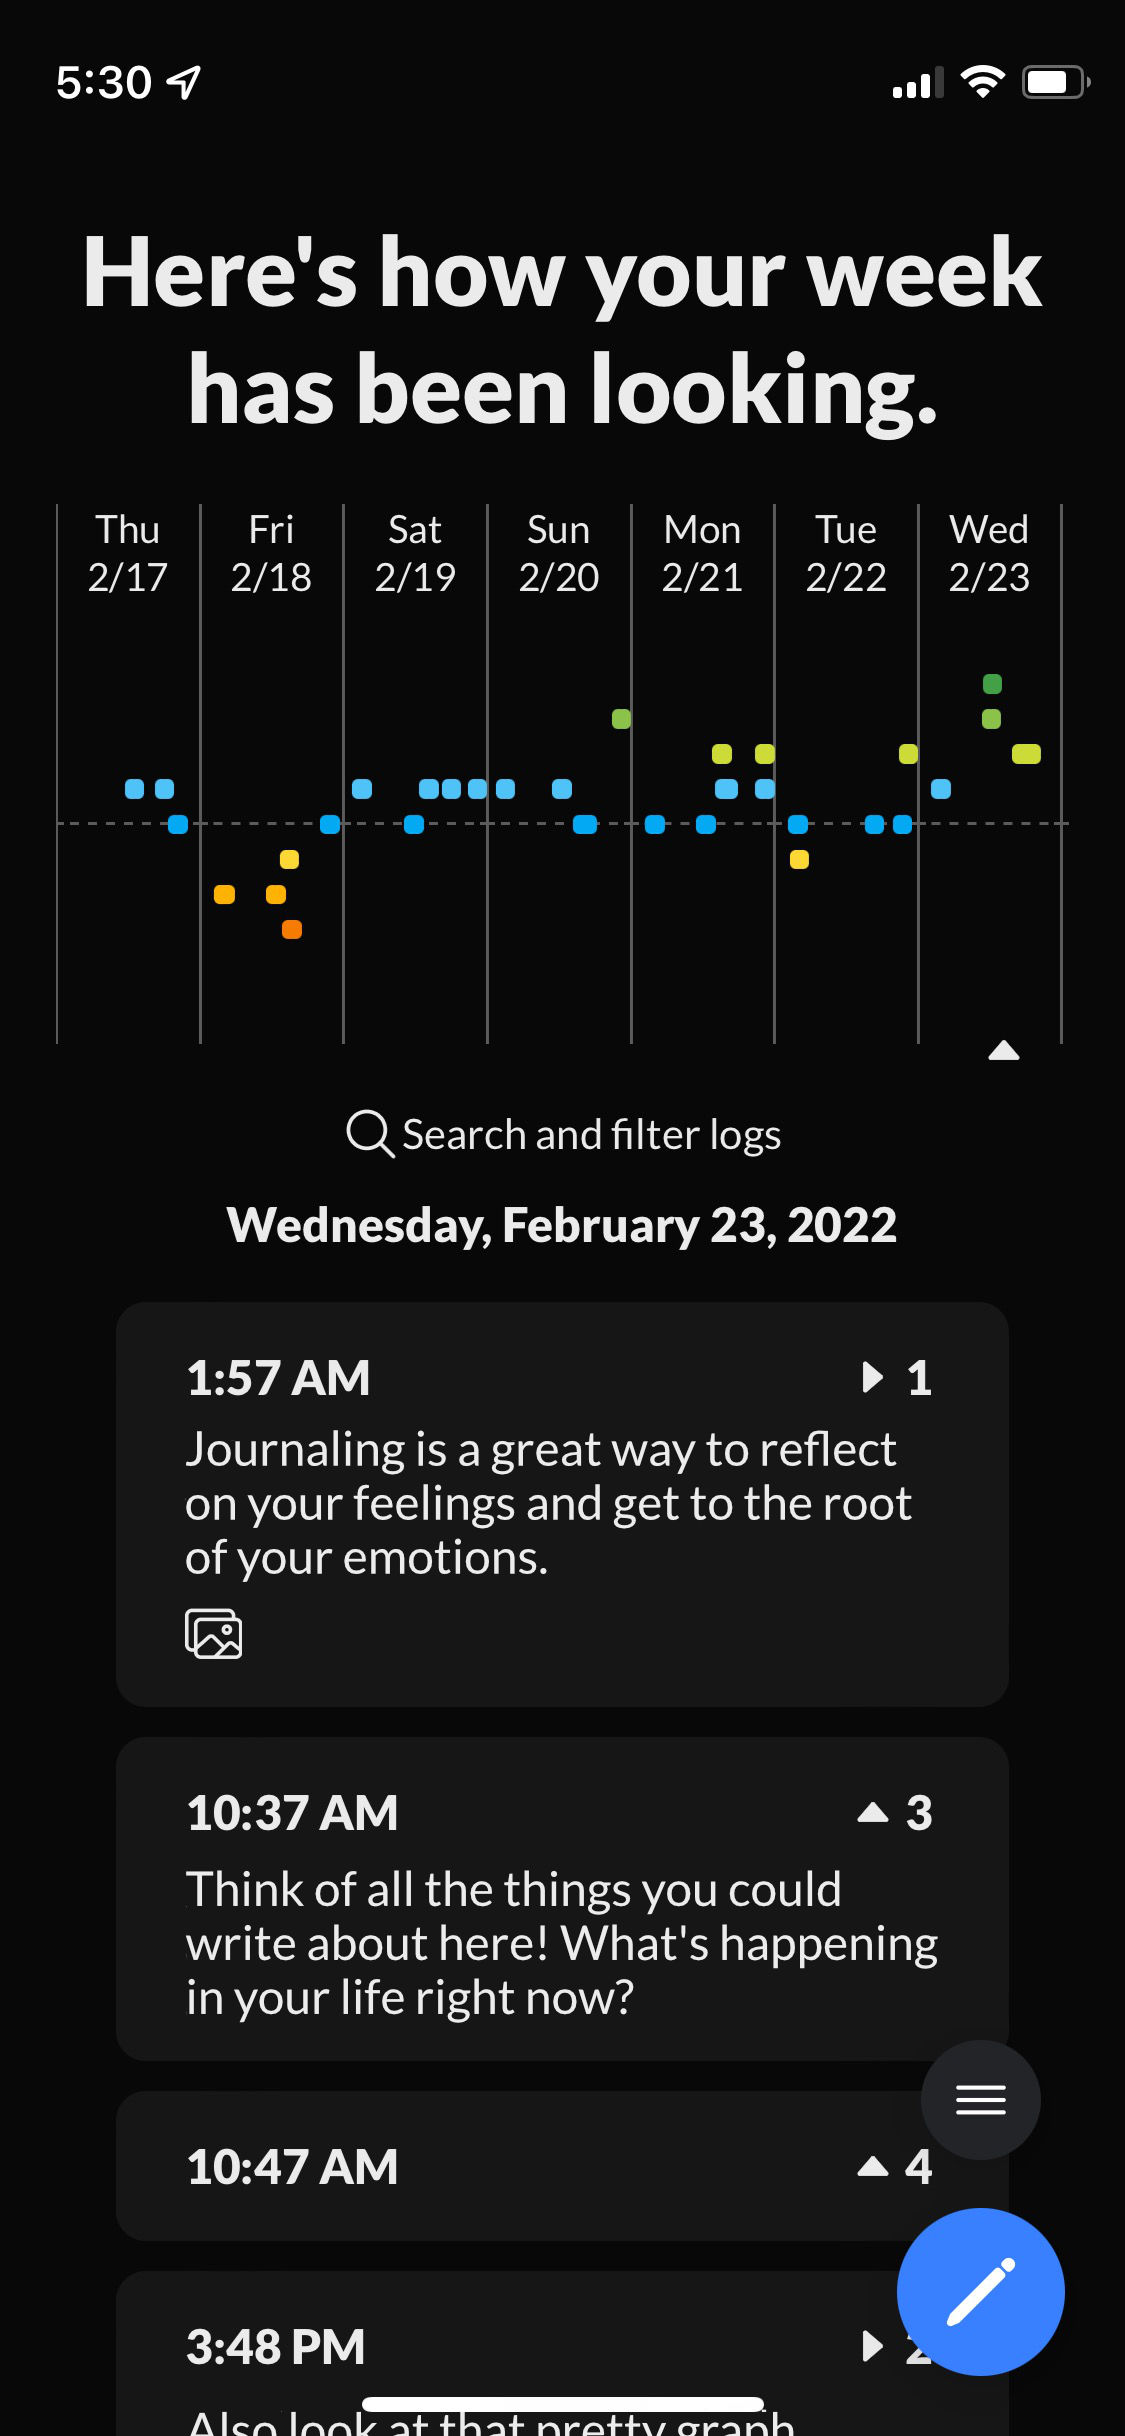
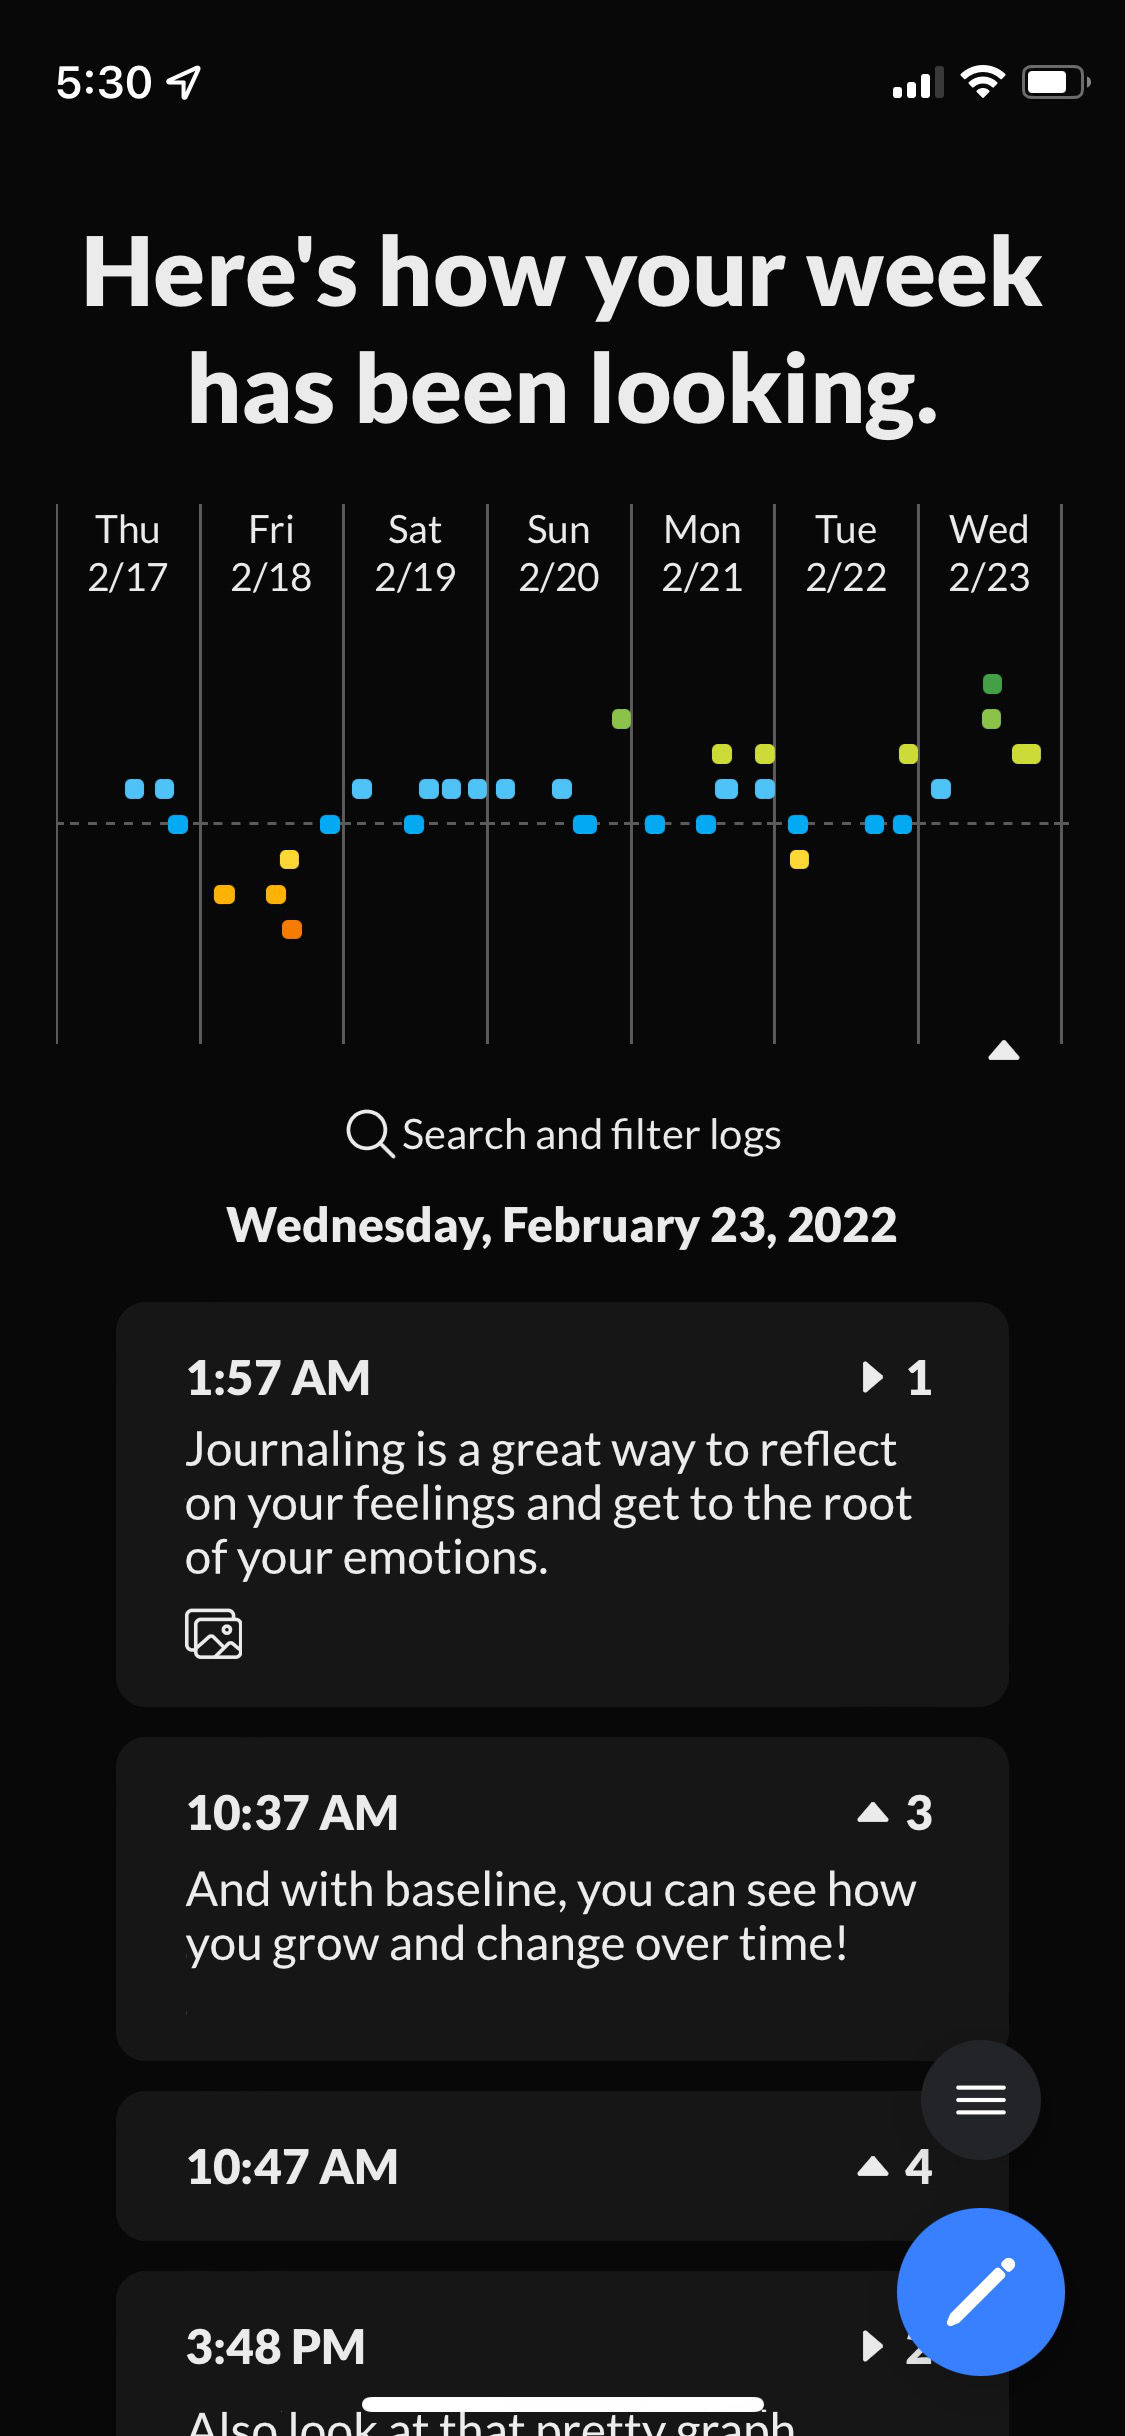
Add lato, and change ss

Changed region(s): [[0.1556, 0.7488, 0.84, 0.8424]]

diff --git a/docs/main.scss b/docs/main.scss
@@ -30,7 +30,10 @@ $feature-icons-background-color: {{ site.feature_icons_background_color }};
 $social-icons-foreground-color: {{ site.social_icons_foreground_color }};
 $social-icons-background-color: {{ site.social_icons_background_color }};
 
+@import url('https://fonts.googleapis.com/css2?family=Lato:wght@400;700&display=swap');
+
 @import 
     "base",
     "layout",
     "github-markdown"
+
